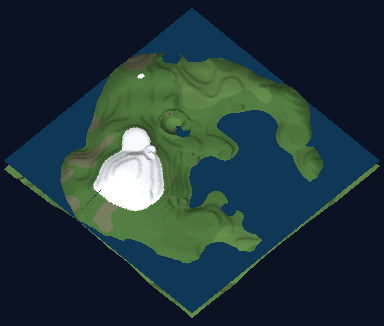
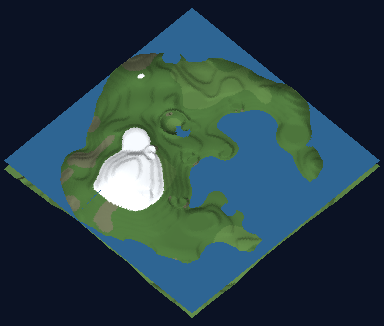
Preview liquid reads as liquid: add the water shader's sky pickup
The lobby previews rasterized liquid as a flat, unlit body colour, so
Titan's methane sea (body 0.06,0.05,0.07) rendered as big void-black
holes - indistinguishable from nothing at all. In game the water
shader always lifts the body with sky reflection and ripple glints,
so the preview now adds the same average sky pickup: Titan's seas read
as dark slate-blue liquid against the brown dunes, and Earth's ocean
brightens to match its in-game blue. Titan and Earth thumbnails
re-rendered.

https://claude.ai/code/session_01XCVTLdNTuz1PGGfKGqDret

diff --git a/apps/client/src/voxel.rs b/apps/client/src/voxel.rs
@@ -834,12 +834,22 @@ mod tests {
         let high = tinted(mix(pmid, phigh, 0.7));
         let accent = tinted(pacc);
         let lava = [0.95, 0.42, 0.12];
-        // Liquid color (matches `active_liquid`): Titan methane, Earth ocean.
-        let liq_col = match idx {
-            8 => [0.06, 0.05, 0.07],
+        // Liquid body color (matches `active_liquid`): Titan methane, Earth
+        // ocean. Drawn like the in-game water reads on screen: the shader
+        // always lifts the body with sky reflection and ripple glints, so
+        // the preview adds the same average sky pickup. Without it a dark
+        // methane sea rasterizes as a flat void-black hole.
+        let body = match idx {
+            8 => [0.06f32, 0.05, 0.07],
             21 => [0.06, 0.22, 0.34],
             _ => [0.0, 0.0, 0.0],
         };
+        let sky = [0.38f32, 0.50, 0.66]; // the water shader's horizon tones
+        let liq_col = [
+            body[0] * 1.12 + sky[0] * 0.30,
+            body[1] * 1.12 + sky[1] * 0.30,
+            body[2] * 1.12 + sky[2] * 0.30,
+        ];
         let ll = (0.5_f32 * 0.5 + 1.0 + 0.35 * 0.35).sqrt();
         let light = [0.5 / ll, 1.0 / ll, 0.35 / ll];
 
